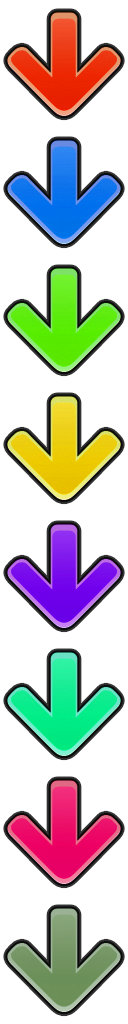
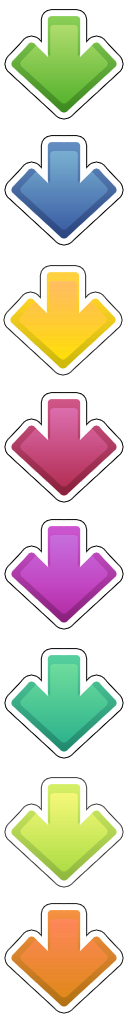
- New Arrows and receptor - New Background color

diff --git a/themes/DefaultTheme/defaultTheme.js b/themes/DefaultTheme/defaultTheme.js
@@ -1494,7 +1494,7 @@ class LoadingViewDefaultGraphicComponent extends interfaces.LoadingViewGraphicCo
     this.background = new PIXI.Sprite(theme.getTexture('blank'));
     this.background.width = width;
     this.background.height = height;
-    this.background.tint = 0x1099bb;
+    this.background.tint = 0x0e333d;
 
     this.textSprite = new PIXI.Text(this._text, {font : '24px Arial', fill : 0xffffff, align : 'center'});
     this.textSprite.y = height - 90;

diff --git a/src/components/game.js b/src/components/game.js
@@ -31,7 +31,7 @@ class Game {
     // Create the PIXI Environment
     let canvas = document.getElementById('game');
     this.stage = new PIXI.Container();
-    this.renderer = PIXI.autoDetectRenderer(this.width, this.height, {backgroundColor : 0x1099bb, view: canvas}, true);
+    this.renderer = PIXI.autoDetectRenderer(this.width, this.height, {backgroundColor : 0x0e333d, view: canvas}, true);
 
     if (debug === true) {
       this.stats = new Stats();

diff --git a/src/views/engineView.js b/src/views/engineView.js
@@ -45,9 +45,9 @@ class EngineView extends View {
     // Create the loading View
     this.loading = new LoadingView(width, height, game); 
 
-    const engineWidth = Math.min(500, width / 2);
+    const engineWidth = Math.min(500, width/2);
     const engineHeight = height;
-    const offset = width / 2 - engineWidth;
+    const offset = width/2  - engineWidth;
 
     let i = 0;
     for (let player of players) {
